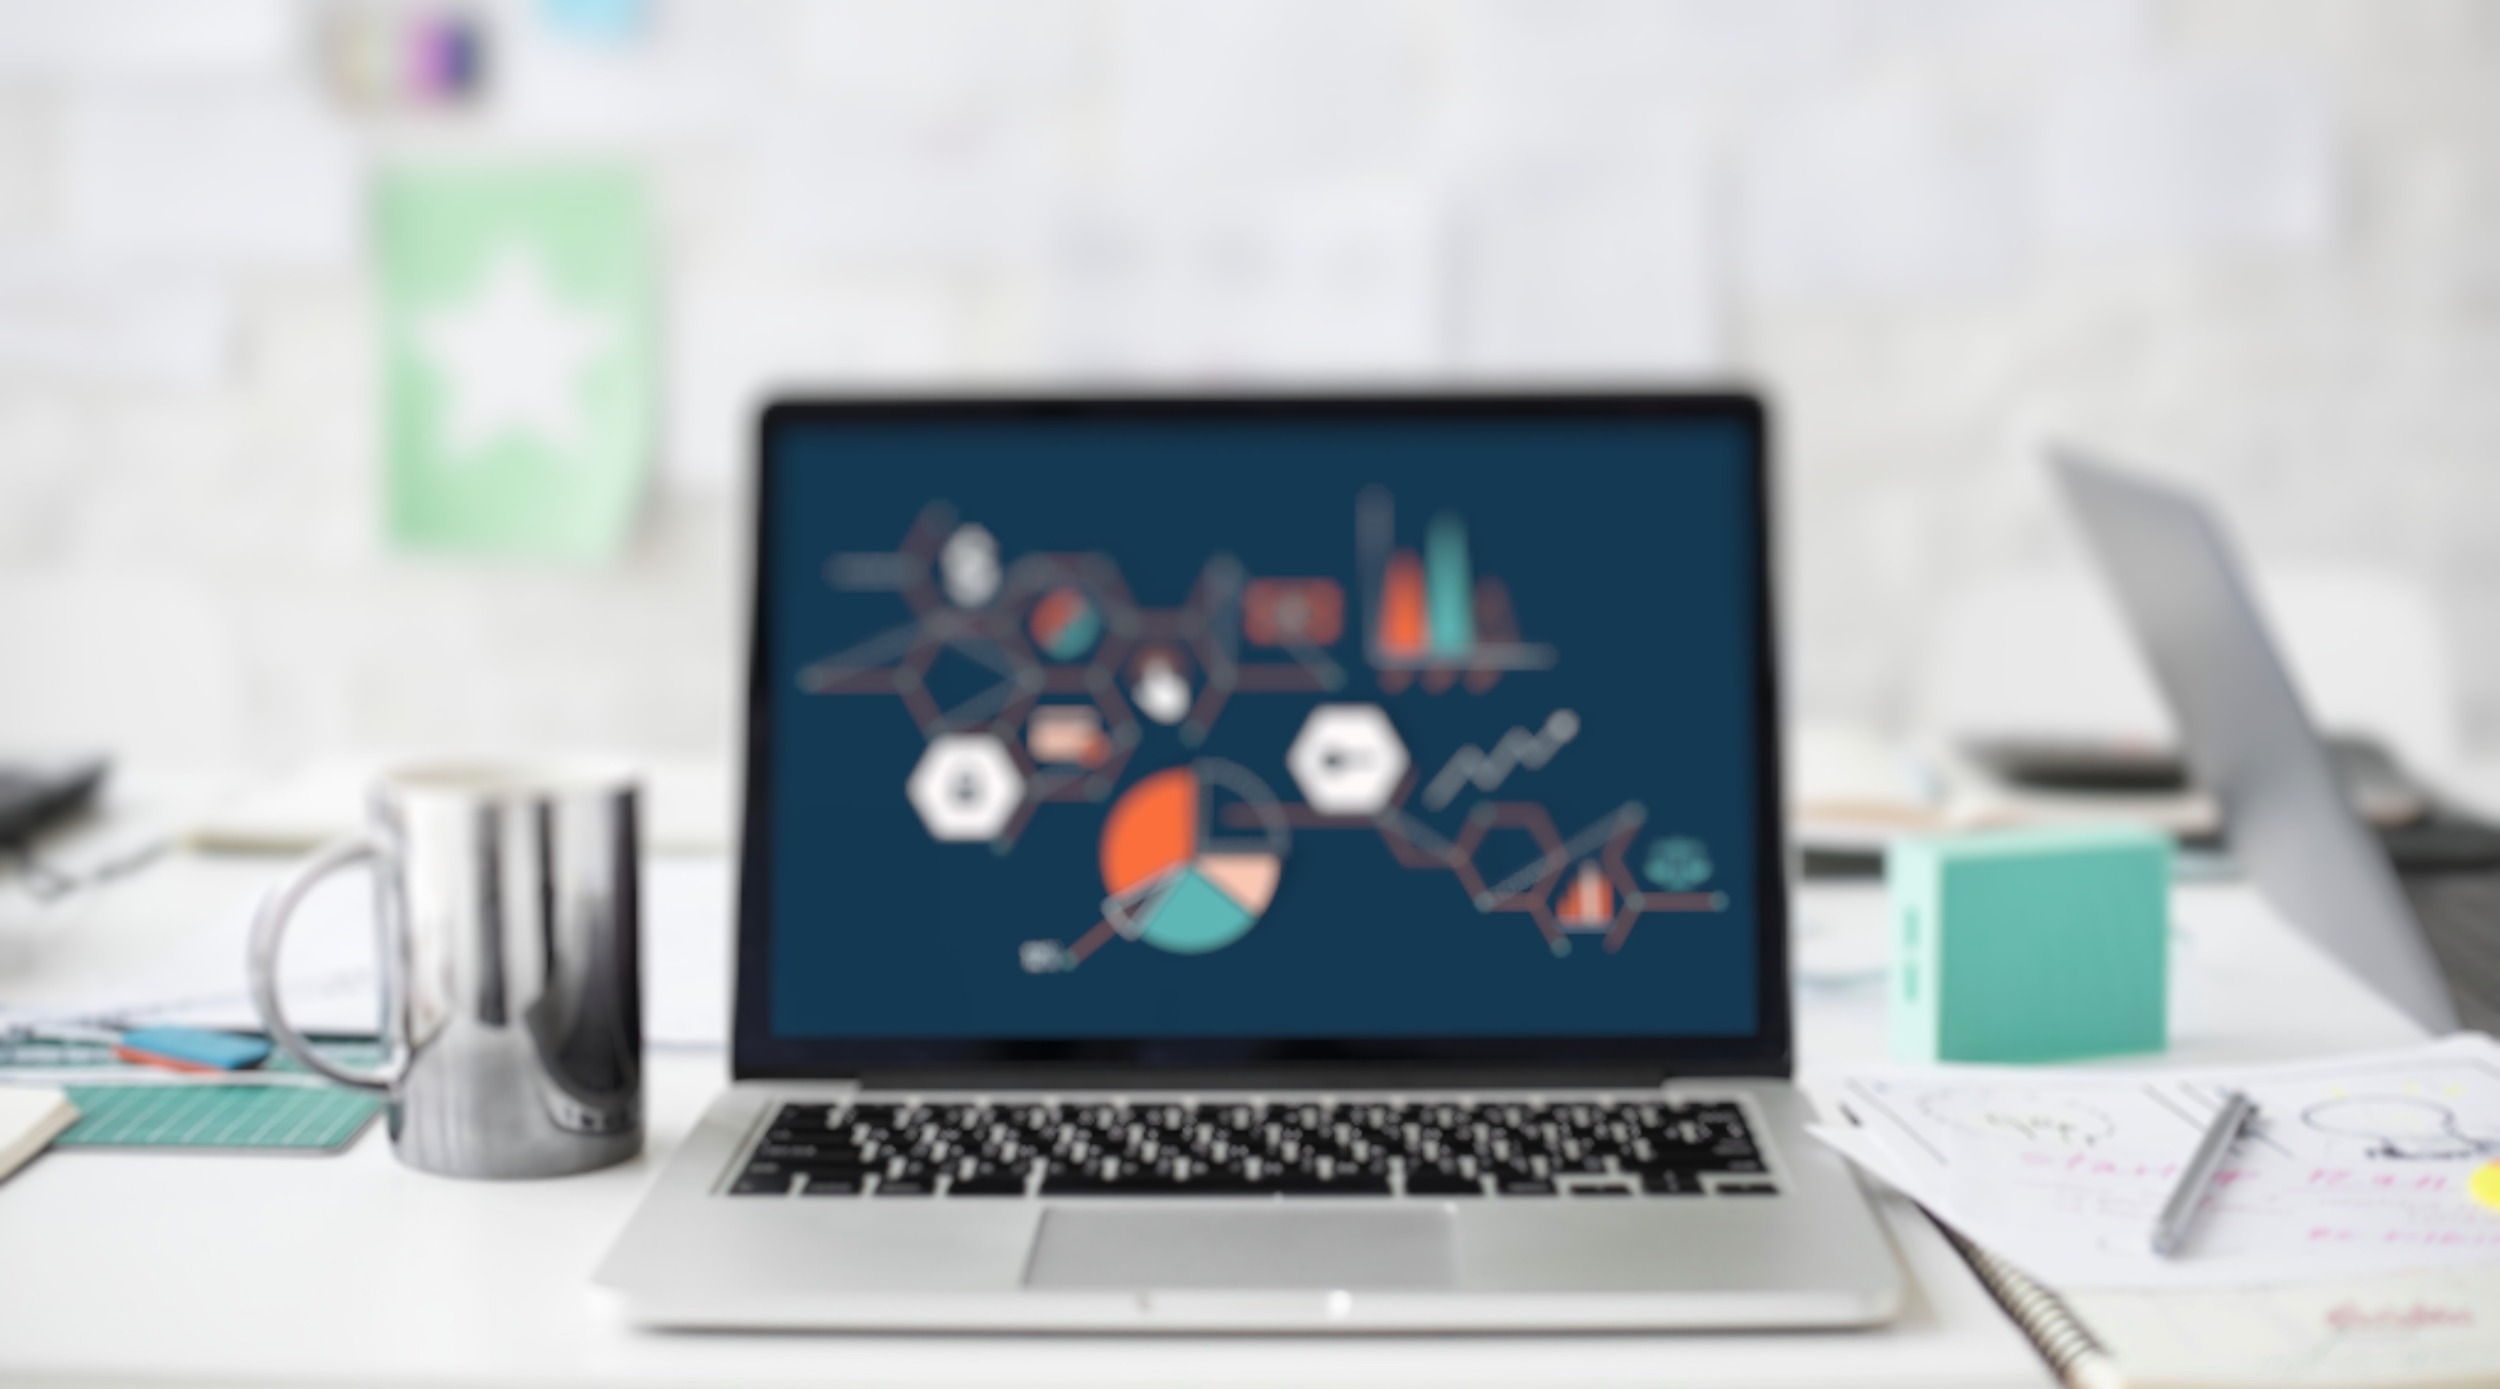
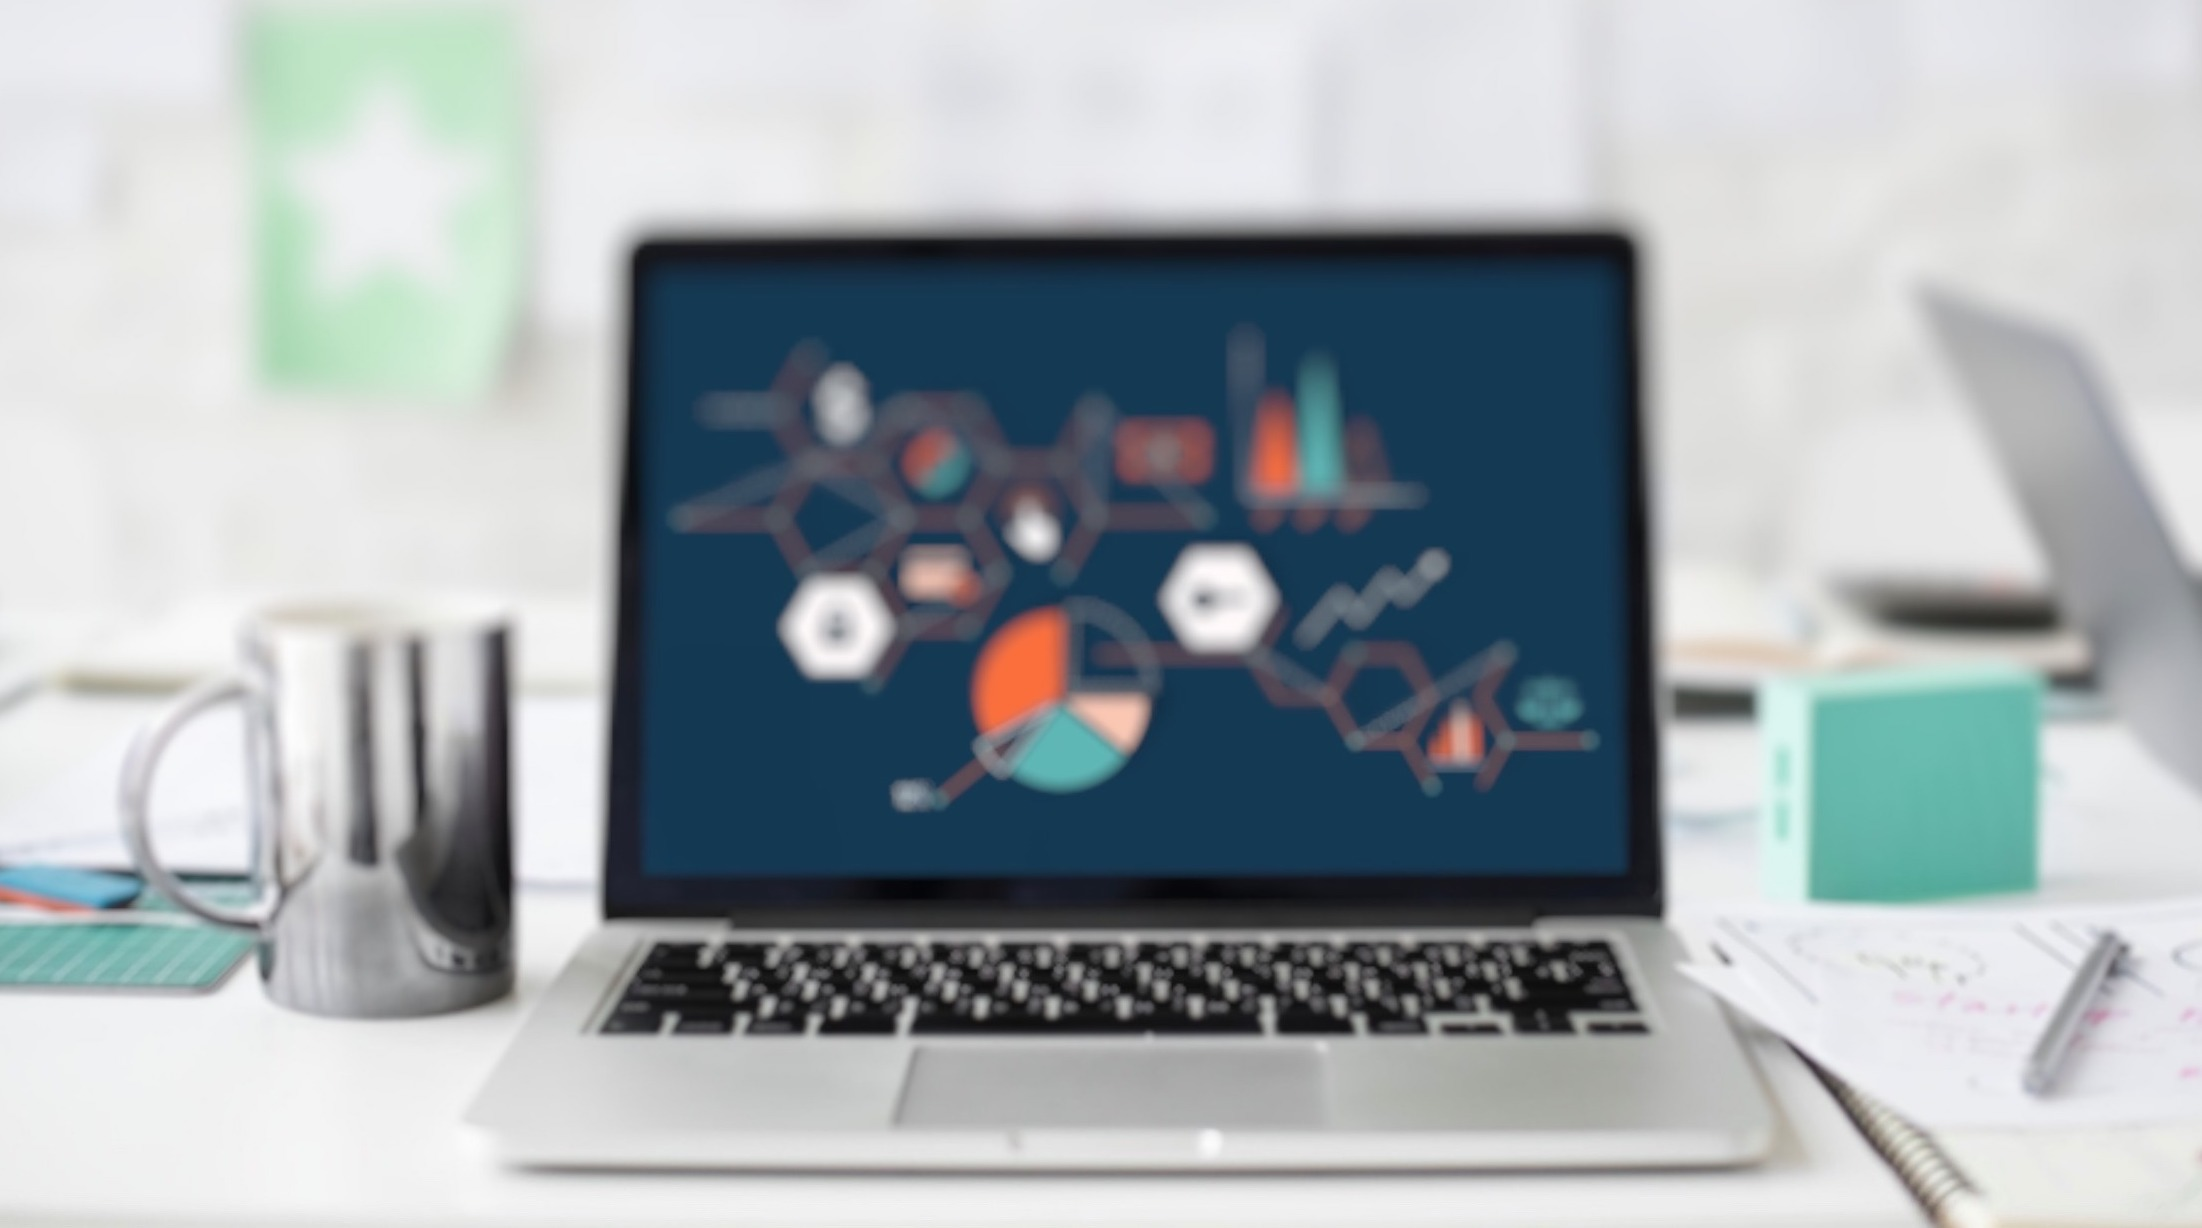
finish jumpbotron

diff --git a/index.html b/index.html
@@ -6,7 +6,6 @@
     <meta http-equiv="X-UA-Compatible" content="ie=edge">
     <link rel="stylesheet" href="style.css">
     <link rel="stylesheet" href="bootstrap-4.3.1-dist/css/bootstrap.css">
-    <script src="jquery-3.3.1.min.js"></script>
     <title>Document</title>
 </head>
 <body>
@@ -41,8 +40,20 @@
         </nav>
       
     </div>
-    <div id="midimage">
-        
+    <div id="mid">
+        <div id="welcome">
+            <div class="jumbotron jumbotron-fluid" style="background:none; margin-bottom: 0rem;">
+                <div class="container" style="">
+                  <h1 class="display-4">Welcome Come To DebuGamO</h1>
+                    <!-- <br><br><br> -->
+                  <p class="lead">學習程式從簡單的遊戲開始</p>
+                </div>
+            </div>
+        </div>
+        <div id="midimage"></div>
+    </div>
+    <div id="about">
+        This is about
     </div>
 <footer>
 

diff --git a/style.css b/style.css
@@ -11,12 +11,36 @@
     color: black;
 }
 
+#mid{
+    height: 700px;
+    /* filter: blur(8px);
+    -webkit-filter: blur(1px); */
+    
+}
+
 #midimage{
-    background-image: url('./blurred-background-coffee-cup-computer-908284.jpg');
+    background-image: url('./business-camera-coffee-1509428.jpg');
     height: 700px;
     background-size: cover;
     background-position: 50% 50%;
     background-repeat: no-repeat;
+    filter: blur(3px);
+    -webkit-filter: blur(3px);
+    /* position: absolute; */
+    
+    /* position: relative; */
+}
+
+#welcome{
+    background-color: rgb(0, 0, 0);
+    background-color: rgba(0, 0, 0, 0.5);
+    position: absolute;
+    top: 25%;
+    /* left: 25%;  */
+    z-index: 2;
+    color: white;
+    border: 1px solid white;
+    /* width: 100%; */
 }
 
 /* div#header nav#nvBar{

diff --git a/index.js b/index.js
@@ -14,9 +14,23 @@ var Header = function (langPkg) {
     }
 }
 
-var loadLangPkg = function(){
-    $.ajax({
-        
-    })
+var midSizeInit = function(e){
+    var bodySize = document.querySelector('body').getBoundingClientRect().width;
+    // console.log(bodySize.width);
+    var jumbotronSize = document.getElementById('welcome').getBoundingClientRect().width;
 
+    var remainpx = (bodySize - jumbotronSize);
+    var welcome = document.getElementById('welcome');
+    welcome.style.left = remainpx / 2 + 'px';
+    console.log(jumbotronSize);
 }
+
+window.addEventListener('resize',function(e){
+    midSizeInit(e);
+})
+
+var init = function (e){
+    midSizeInit(e);
+}
+
+window.addEventListener('load',init);
